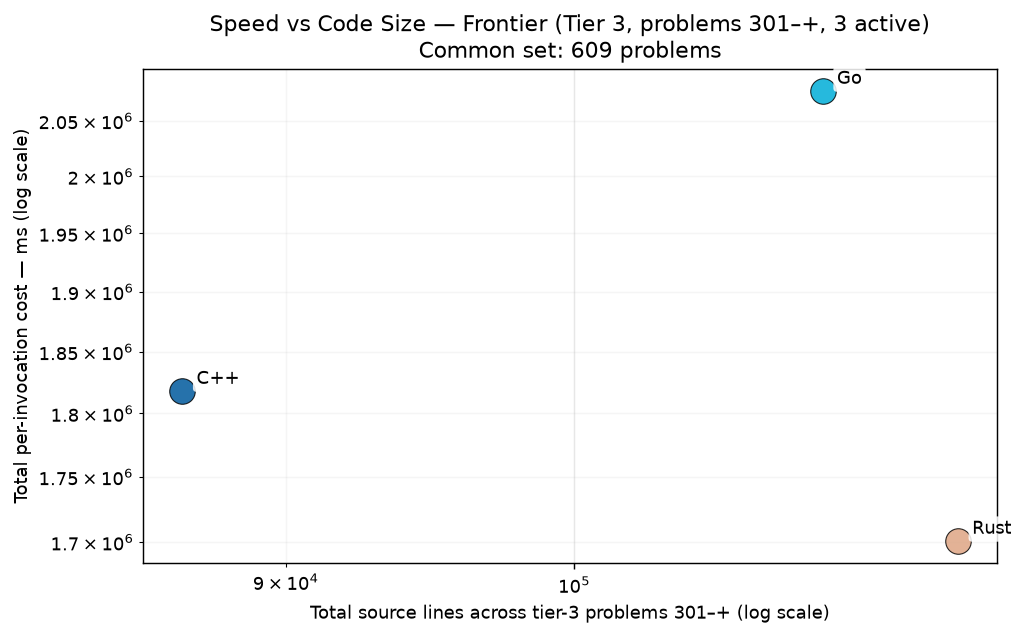
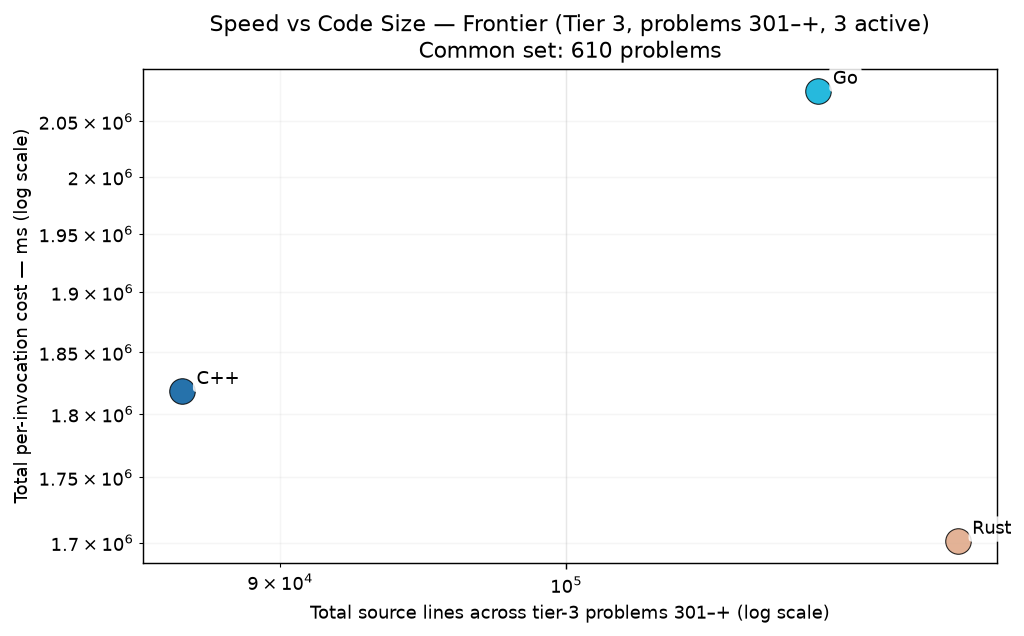
go p0608

diff --git a/RESULTS.md b/RESULTS.md
@@ -1,6 +1,6 @@
 # Project Euler — Cross-Language Benchmarks
 
-> **Scope: 4521 in-scope cells across 1007 problems × tiered languages — 4337 measured (95.9% coverage).**
+> **Scope: 4521 in-scope cells across 1007 problems × tiered languages — 4338 measured (96.0% coverage).**
 > The cross-language ranking below is computed over the **200-problem common set** (problems in 1-200 where every language has a passing measurement) — the apples-to-apples Foundation comparison surface.  Per-tier rankings and coverage detail appear further below.
 > Growing carefully — each new problem and language is audited for state-leak
 > safety, verified for answer correctness, and added only when it cleanly fits the
@@ -70,15 +70,15 @@ Same scatter as the Foundation chart, restricted to the tier-2 active languages 
 
 The frontier verification trio — C++, Go, Rust — on problems above 300. 3-way cross-language agreement is the verification protocol (strictly stronger than 2-way; see JOURNEY.md "Tier Reframing" episode for the p254 lesson that motivated it). Python and Zig are explicitly out of this tier — python's wall cost makes it impractical at level 5+, and zig's role caps at Tier 2.
 
-### Per-Invocation Cost (Common Set, 609 of ≤707 problems in scope)
+### Per-Invocation Cost (Common Set, 610 of ≤707 problems in scope)
 
 ![Per-Invocation Cost — Tier 3](charts/per_iter_total_tier3.png)
 
-| Rank | Language | Geomean (609-problem common set) | Total (sum) | Lines of code | vs Fastest |
+| Rank | Language | Geomean (610-problem common set) | Total (sum) | Lines of code | vs Fastest |
 |------|----------|--------------------:|------------:|--------------:|-----------:|
-| 1 | **Rust** | 73.52 ms | 1700.78 s | 115,053 | 1.00× |
-| 2 | **C++** | 74.82 ms | 1817.90 s | 86,651 | 1.02× |
-| 3 | **Go** | 86.49 ms | 2077.23 s | 109,506 | 1.18× |
+| 1 | **Rust** | 73.73 ms | 1701.18 s | 115,521 | 1.00× |
+| 2 | **C++** | 75.01 ms | 1818.25 s | 86,802 | 1.02× |
+| 3 | **Go** | 86.75 ms | 2077.76 s | 109,743 | 1.18× |
 
 ### Speed vs Code Size
 

diff --git a/per_problem/per_problem_0601-0700.md b/per_problem/per_problem_0601-0700.md
@@ -15,7 +15,7 @@ in tier-1 display order (native → managed → interpreted).
 | **p0605** | <1 µs | <1 µs | 1.4 µs~ |
 | **p0606** | 888.65 ms | 1.04 s | 1.53 s |
 | **p0607** | 4.7 µs | 4.0 µs | 3.4 µs~ |
-| **p0608** | 349.25 ms | 402.04 ms | — |
+| **p0608** | 349.25 ms | 402.04 ms | 529.21 ms |
 | **p0609** | 1.56 s | 1.62 s | 1.61 s |
 | **p0610** | 857.8 µs | 1.10 ms | 1.61 ms |
 | **p0611** | 537.27 ms | 775.36 ms | 438.35 ms |
